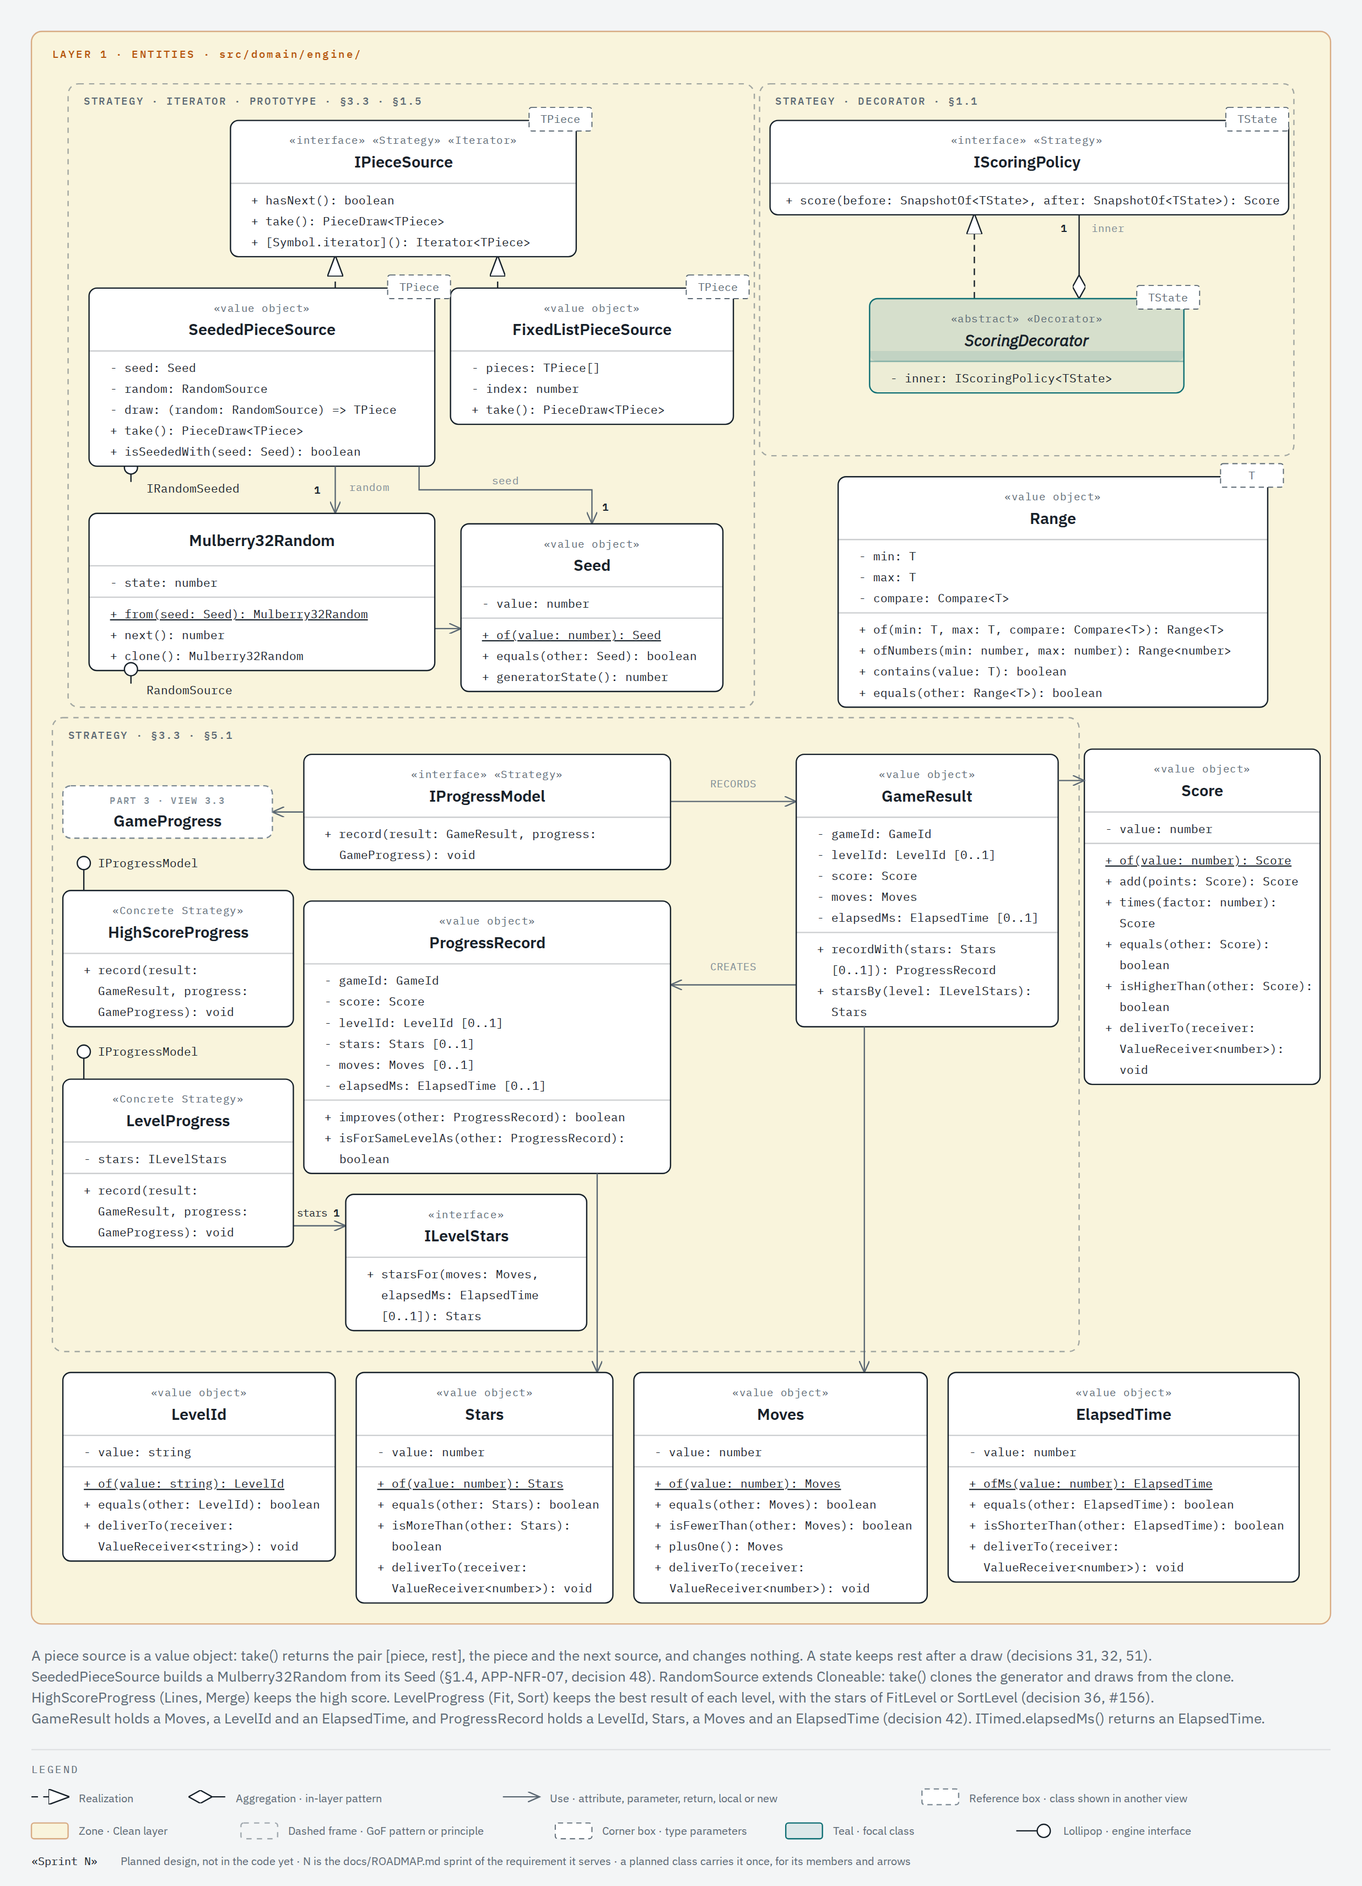
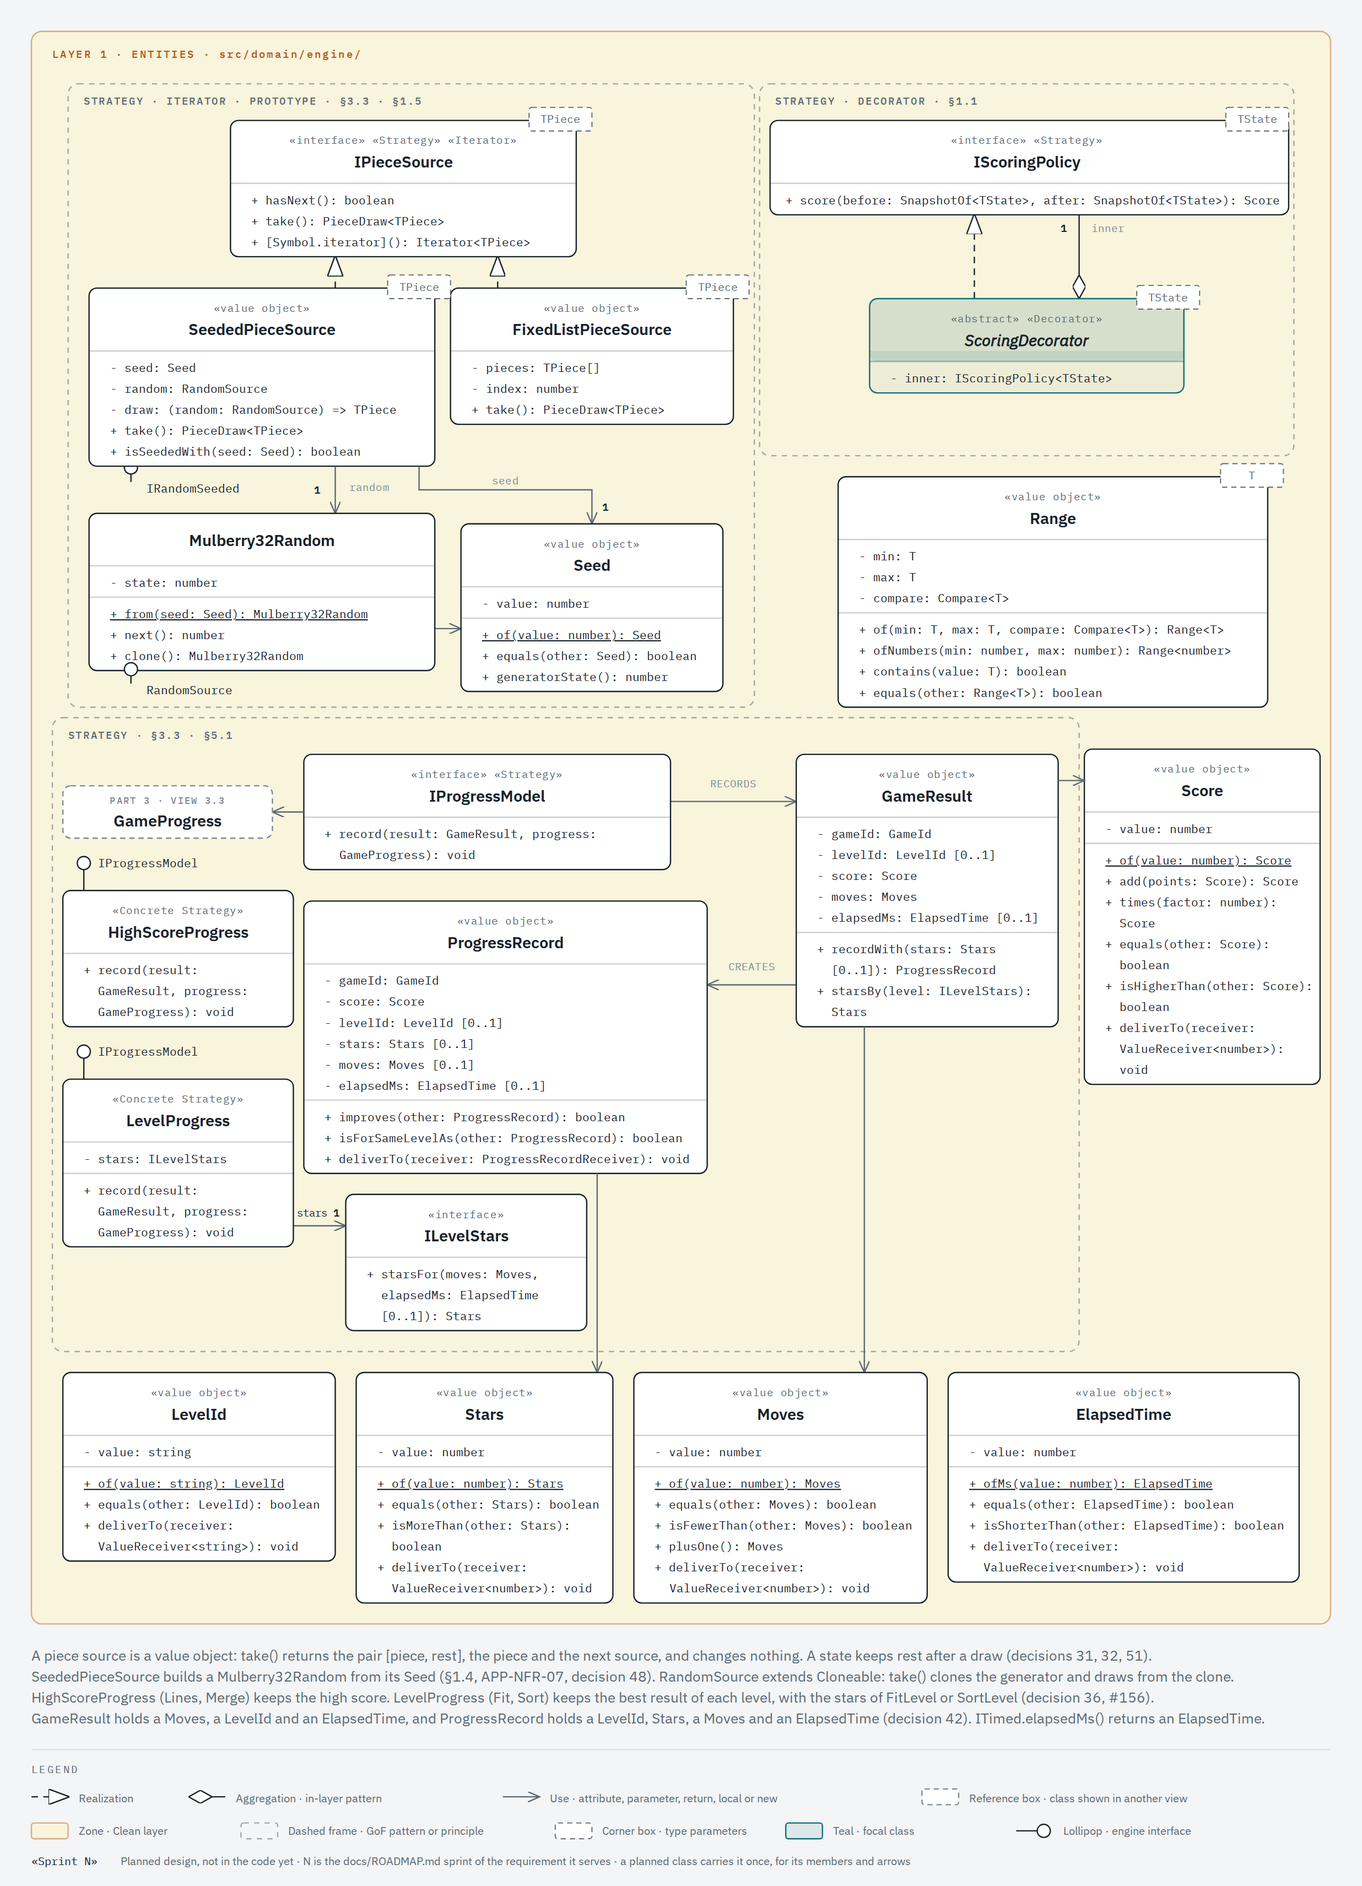
feat(domain): let the game progress, its records and the game id deliver their values
GameProgress, ProgressRecord and GameId give their data to a receiver with deliverTo().

An adapter of the edge stores a progress with them; no getter and no primitive is added.

Refs #164

Changed region(s): [[0.4672, 0.4645, 0.5295, 0.6193], [0.3115, 0.4955, 0.4049, 0.5264]]

diff --git a/test/support/engine/progress-content.ts b/test/support/engine/progress-content.ts
@@ -1,0 +1,74 @@
+import type { ElapsedTime } from '../../../src/domain/engine/elapsed-time';
+import type { GameId } from '../../../src/domain/engine/game-id';
+import type { GameProgress } from '../../../src/domain/engine/game-progress';
+import type { LevelId } from '../../../src/domain/engine/level-id';
+import type { Moves } from '../../../src/domain/engine/moves';
+import type { ProgressRecord } from '../../../src/domain/engine/progress-model';
+import type { Score } from '../../../src/domain/engine/score';
+import type { Stars } from '../../../src/domain/engine/stars';
+
+// Readers of a progress and of a record. They exist only in test/.
+// A progress and a record keep their fields private and deliver them to a receiver (issue #164).
+
+// What a progress delivers: the id of its game, its high score and the result of each level.
+export interface ProgressContent {
+  readonly gameId: GameId;
+  readonly highScore: ProgressRecord | undefined;
+  readonly levels: readonly ProgressRecord[];
+}
+
+// What a record delivers. A record of a game with no levels has no level values.
+export interface RecordContent {
+  readonly gameId: GameId;
+  readonly score: Score;
+  readonly levelId: LevelId | undefined;
+  readonly stars: Stars | undefined;
+  readonly moves: Moves | undefined;
+  readonly elapsedMs: ElapsedTime | undefined;
+}
+
+// The content that `progress` delivers. A progress that delivers no content,
+// or more than one content, throws.
+export function contentOf(progress: GameProgress): ProgressContent {
+  const contents: ProgressContent[] = [];
+  progress.deliverTo({
+    receive: (gameId, highScore, levels) => contents.push({ gameId, highScore, levels }),
+  });
+  if (contents.length !== 1) {
+    throw new Error(`The progress delivered ${contents.length} contents, not 1.`);
+  }
+  return contents[0];
+}
+
+// The content that `record` delivers. A record that delivers no content,
+// or more than one content, throws.
+export function recordContentOf(record: ProgressRecord): RecordContent {
+  const contents: RecordContent[] = [];
+  record.deliverTo({
+    receive: (gameId, score, levelId, stars, moves, elapsedMs) =>
+      contents.push({ gameId, score, levelId, stars, moves, elapsedMs }),
+  });
+  if (contents.length !== 1) {
+    throw new Error(`The record delivered ${contents.length} contents, not 1.`);
+  }
+  return contents[0];
+}
+
+// Tells if two progresses deliver equal value objects: one game id, equal high scores,
+// and equal level results in the same order. Each value object compares with `equals()`.
+export function sameContent(left: GameProgress, right: GameProgress): boolean {
+  const first = contentOf(left);
+  const second = contentOf(right);
+  return (
+    first.gameId.equals(second.gameId) &&
+    sameRecord(first.highScore, second.highScore) &&
+    first.levels.length === second.levels.length &&
+    first.levels.every((record, index) => sameRecord(record, second.levels[index]))
+  );
+}
+
+// Two missing records are equal. A missing record and a present record are different.
+function sameRecord(left: ProgressRecord | undefined, right: ProgressRecord | undefined): boolean {
+  if (left === undefined || right === undefined) return left === right;
+  return left.equals(right);
+}

diff --git a/docs/architecture/classes/views/engine-4-sources.html b/docs/architecture/classes/views/engine-4-sources.html
@@ -88,7 +88,8 @@
           Moves, a LevelId and an ElapsedTime, and ProgressRecord holds a LevelId, Stars, a Moves
           and an ElapsedTime. Their fields are private: GameResult creates the ProgressRecord of a
           progress model with recordWith(), and ProgressRecord tells with improves() whether it is
-          better than the stored record, by the order of DS-4.
+          better than the stored record, by the order of DS-4. ProgressRecord gives its value
+          objects to a repository of the edge with deliverTo().
         </desc>
         <defs>
           <marker
@@ -783,15 +784,15 @@
         <line
           x1="608"
           y1="752"
-          x2="512"
+          x2="540"
           y2="752"
           stroke-width="1"
           marker-end="url(#sources-open)"
           stroke="#5b6873"
         />
-        <rect x="538" y="732" width="44" height="12" rx="2" fill="#f9f4dc" />
+        <rect x="552" y="732" width="44" height="12" rx="2" fill="#f9f4dc" />
         <text
-          x="560"
+          x="574"
           y="741"
           fill="#7d8a94"
           font-size="8"
@@ -805,16 +806,16 @@
         <rect
           x="232"
           y="688"
-          width="280"
+          width="308"
           height="208"
           rx="6"
           fill="#ffffff"
           stroke="#17212a"
           stroke-width="1"
         />
-        <line x1="232" y1="736" x2="512" y2="736" stroke="rgba(23,33,42,0.22)" stroke-width="1" />
+        <line x1="232" y1="736" x2="540" y2="736" stroke="rgba(23,33,42,0.22)" stroke-width="1" />
         <text
-          x="372"
+          x="386"
           y="706"
           fill="#5b6873"
           font-size="8"
@@ -825,7 +826,7 @@
           «value object»
         </text>
         <text
-          x="372"
+          x="386"
           y="724"
           fill="#17212a"
           font-size="12"
@@ -853,15 +854,15 @@
         <text x="248" y="832" fill="#17212a" font-size="9" font-family="'IBM Plex Mono', monospace">
           - elapsedMs: ElapsedTime [0..1]
         </text>
-        <line x1="232" y1="840" x2="512" y2="840" stroke="rgba(23,33,42,0.22)" stroke-width="1" />
+        <line x1="232" y1="840" x2="540" y2="840" stroke="rgba(23,33,42,0.22)" stroke-width="1" />
         <text x="248" y="856" fill="#17212a" font-size="9" font-family="'IBM Plex Mono', monospace">
           + improves(other: ProgressRecord): boolean
         </text>
         <text x="248" y="872" fill="#17212a" font-size="9" font-family="'IBM Plex Mono', monospace">
-          + isForSameLevelAs(other: ProgressRecord):
+          + isForSameLevelAs(other: ProgressRecord): boolean
         </text>
-        <text x="259" y="888" fill="#17212a" font-size="9" font-family="'IBM Plex Mono', monospace">
-          boolean
+        <text x="248" y="888" fill="#17212a" font-size="9" font-family="'IBM Plex Mono', monospace">
+          + deliverTo(receiver: ProgressRecordReceiver): void
         </text>
 
         <!-- Class: GameResult (value object, private fields) -->

diff --git a/test/domain/engine/game-progress.test.ts b/test/domain/engine/game-progress.test.ts
@@ -9,6 +9,7 @@ import { Moves } from '../../../src/domain/engine/moves';
 import { GameResult, ProgressRecord } from '../../../src/domain/engine/progress-model';
 import { Score } from '../../../src/domain/engine/score';
 import { Stars } from '../../../src/domain/engine/stars';
+import { contentOf } from '../../support/engine/progress-content';
 
 // The local progress of one game is one object with the high score and the best result
 // of each level (S3-04, issue #156). A progress model records each result in it.
@@ -75,6 +76,45 @@ describe('GameProgress', () => {
     expect(progress.keeps(levelRecord('l2', 1, 40))).toBe(false);
     // A level result is not the high score, and a high score is not a level result.
     expect(progress.keeps(highScore(0))).toBe(false);
+  });
+
+  // The fields are private. A repository of the edge receives them through `deliverTo()`
+  // (issue #164), and the delivery returns nothing.
+  it('should_deliver_the_game_id_the_high_score_and_each_level_result_when_a_receiver_takes_the_progress', () => {
+    const progress = GameProgress.start(gameId);
+    progress.recordLevel(levelRecord('l2', 1, 40));
+    progress.recordScore(highScore(35));
+    progress.recordLevel(levelRecord('l1', 3, 10, 2000));
+    progress.recordLevel(levelRecord('l2', 2, 50));
+
+    const content = contentOf(progress);
+
+    expect(content.gameId.equals(gameId)).toBe(true);
+    expect(content.highScore?.equals(highScore(35))).toBe(true);
+    // One result per level, in the order of the first result of each level.
+    expect(content.levels).toHaveLength(2);
+    expect(content.levels[0].equals(levelRecord('l2', 2, 50))).toBe(true);
+    expect(content.levels[1].equals(levelRecord('l1', 3, 10, 2000))).toBe(true);
+    expect(progress.deliverTo({ receive: () => undefined })).toBeUndefined();
+  });
+
+  it('should_deliver_no_high_score_and_no_level_result_when_the_progress_is_new', () => {
+    const content = contentOf(GameProgress.start(gameId));
+
+    expect(content.gameId.equals(gameId)).toBe(true);
+    expect(content.highScore).toBeUndefined();
+    expect(content.levels).toEqual([]);
+  });
+
+  // The delivery gives a copy of the list, so a receiver cannot change the progress.
+  it('should_keep_its_level_results_when_a_receiver_empties_the_delivered_list', () => {
+    const progress = GameProgress.start(gameId);
+    progress.recordLevel(levelRecord('l1', 3, 10));
+
+    (contentOf(progress).levels as ProgressRecord[]).length = 0;
+
+    expect(contentOf(progress).levels).toHaveLength(1);
+    expect(progress.keeps(levelRecord('l1', 3, 10))).toBe(true);
   });
 
   // A progress is an entity (classes.md decision 52): its identity is the id of its game.

diff --git a/test/domain/engine/progress-model.test.ts b/test/domain/engine/progress-model.test.ts
@@ -6,6 +6,7 @@ import { Moves } from '../../../src/domain/engine/moves';
 import { GameResult, ProgressRecord } from '../../../src/domain/engine/progress-model';
 import { Score } from '../../../src/domain/engine/score';
 import { Stars } from '../../../src/domain/engine/stars';
+import { recordContentOf } from '../../support/engine/progress-content';
 
 // A progress value holds value objects: a `Score`, `Moves`, a `LevelId`, an `ElapsedTime`
 // and `Stars`. It has no check of its own: each value object is valid when it exists
@@ -69,6 +70,44 @@ describe('ProgressRecord', () => {
     expect(record(10, 5000).equals(record(10, 5000))).toBe(true);
     expect(record(10, 5000).equals(record(11, 5000))).toBe(false);
     expect(record(10, 5000).equals(record(10, 5001))).toBe(false);
+  });
+
+  // The fields are private. A repository of the edge receives them through `deliverTo()`
+  // (issue #164), and the delivery returns nothing.
+  it('should_deliver_each_value_object_when_a_receiver_takes_the_record_of_a_level', () => {
+    const record = ProgressRecord.of({
+      gameId,
+      score: Score.of(12),
+      levelId: LevelId.of('l1'),
+      stars: Stars.of(2),
+      moves: Moves.of(9),
+      elapsedMs: ElapsedTime.ofMs(3000),
+    });
+
+    const content = recordContentOf(record);
+
+    expect([
+      content.gameId.equals(gameId),
+      content.score.equals(Score.of(12)),
+      content.levelId?.equals(LevelId.of('l1')),
+      content.stars?.equals(Stars.of(2)),
+      content.moves?.equals(Moves.of(9)),
+      content.elapsedMs?.equals(ElapsedTime.ofMs(3000)),
+    ]).toEqual([true, true, true, true, true, true]);
+    expect(record.deliverTo({ receive: () => undefined })).toBeUndefined();
+  });
+
+  it('should_deliver_no_level_values_when_a_receiver_takes_the_record_of_a_high_score', () => {
+    const content = recordContentOf(ProgressRecord.of({ gameId, score: Score.of(36) }));
+
+    expect(content.gameId.equals(gameId)).toBe(true);
+    expect(content.score.equals(Score.of(36))).toBe(true);
+    expect([content.levelId, content.stars, content.moves, content.elapsedMs]).toEqual([
+      undefined,
+      undefined,
+      undefined,
+      undefined,
+    ]);
   });
 
   // A game with no levels has no level id and no stars, and that is valid.

diff --git a/src/domain/engine/game-progress.ts b/src/domain/engine/game-progress.ts
@@ -9,7 +9,9 @@ import type { ProgressRecord } from './progress-model';
 // A progress model records each result in it (`IProgressModel`).
 // The progress asks each record whether it `improves()` the stored record.
 // So it keeps the best record by the order of DS-4 and DS-12, and a tie keeps the stored record.
-// Every field is private.
+// Every field is private. A repository of the edge receives the fields through `deliverTo()`
+// (issue #164). It builds a saved progress again with `start()`, `recordScore()`
+// and `recordLevel()`, so the progress keeps its rules when it comes back from storage.
 export class GameProgress {
   private highScore: ProgressRecord | undefined = undefined;
   // One record per level, in the order of the first result of each level.
@@ -54,4 +56,24 @@ export class GameProgress {
       this.highScore?.equals(record) === true || this.levels.some((stored) => stored.equals(record))
     );
   }
+
+  // Gives the game id, the high score and the record of each level to `receiver`.
+  // It returns nothing. A progress with no high score gives `undefined` for it.
+  // The levels come in the order of the first result of each level, in a new list,
+  // so the receiver cannot change the progress. Only a repository of the edge calls it
+  // (rule R-no-delivery-call).
+  deliverTo(receiver: GameProgressReceiver): void {
+    receiver.receive(this.gameId, this.highScore, [...this.levels]);
+  }
+}
+
+// The receiver of the data of a `GameProgress`. A repository of the edge implements it,
+// for example to save the progress (issue #164). No code of `src/domain/`
+// or `src/application/` calls `deliverTo()` (rule R-no-delivery-call).
+export interface GameProgressReceiver {
+  receive(
+    gameId: GameId,
+    highScore: ProgressRecord | undefined,
+    levels: readonly ProgressRecord[],
+  ): void;
 }

diff --git a/src/domain/engine/progress-model.ts b/src/domain/engine/progress-model.ts
@@ -84,6 +84,7 @@ export class GameResult {
 // So the record has no check of its own: a `Score`, a `LevelId`, `Stars`, `Moves`
 // and an `ElapsedTime` are valid when they exist.
 // Every field is private (issue #240). A progress keeps the best record with `improves()`.
+// A repository of the edge receives the fields through `deliverTo()` (issue #164).
 export class ProgressRecord {
   private constructor(
     private readonly gameId: GameId,
@@ -148,6 +149,27 @@ export class ProgressRecord {
       false
     );
   }
+
+  // Gives the value objects of this record to `receiver`. It returns nothing.
+  // A record of a game with no levels gives no level id, no stars, no moves and no time.
+  // Only a repository of the edge calls it (rule R-no-delivery-call).
+  deliverTo(receiver: ProgressRecordReceiver): void {
+    receiver.receive(this.gameId, this.score, this.levelId, this.stars, this.moves, this.elapsedMs);
+  }
+}
+
+// The receiver of the value objects of a `ProgressRecord`. A repository of the edge
+// implements it, for example to save the record (issue #164). No code of `src/domain/`
+// or `src/application/` calls `deliverTo()` (rule R-no-delivery-call).
+export interface ProgressRecordReceiver {
+  receive(
+    gameId: GameId,
+    score: Score,
+    levelId: LevelId | undefined,
+    stars: Stars | undefined,
+    moves: Moves | undefined,
+    elapsedMs: ElapsedTime | undefined,
+  ): void;
 }
 
 // Compares two optional value objects with `same`, the `equals()` of their class.

diff --git a/test/domain/engine/game-phase.test.ts b/test/domain/engine/game-phase.test.ts
@@ -14,6 +14,7 @@ import {
 } from '../../../src/domain/engine/game-phase';
 import { dataOf } from '../../support/engine/game-over';
 import { MATCH_ID } from '../../support/engine/match-id';
+import { RecordingReceiver } from '../../support/engine/value-receiver';
 
 // The value that `act` throws, or `undefined` when it throws nothing.
 function thrownBy(act: () => void): unknown {
@@ -179,6 +180,17 @@ describe('GameId', () => {
   it('should_be_equal_when_two_ids_hold_the_same_value', () => {
     expect(GameId.of('hexa-fit').equals(GameId.of('hexa-fit'))).toBe(true);
     expect(GameId.of('hexa-fit').equals(GameId.of('hexa-sort'))).toBe(false);
+  });
+
+  // The text leaves the id only through a receiver (issue #164).
+  // The local progress repository saves the progress of a game under a key with this text.
+  it('should_deliver_its_text_once_and_return_nothing_when_a_receiver_takes_it', () => {
+    const receiver = new RecordingReceiver<string>();
+
+    const returned: void = GameId.of('hexa-fit').deliverTo(receiver);
+
+    expect(returned).toBeUndefined();
+    expect(receiver.received()).toEqual(['hexa-fit']);
   });
 });
 

diff --git a/src/domain/engine/game-id.ts b/src/domain/engine/game-id.ts
@@ -1,7 +1,13 @@
+import type { ValueReceiver } from './value-receiver';
+
 // The id of one game, for example `hexa-lines`. It is an open value object:
 // a new variant brings its own id and changes no engine file (classes.md decision 30).
 // An id is a lowercase kebab-case slug: words of `a` to `z` and `0` to `9`, joined by one `-`.
 // So an id has no space, no tab and no uppercase letter.
+// The text is private. `deliverTo()` gives it to a receiver, and no operation returns it.
+// Only an adapter of the edge calls `deliverTo()`, for example the local progress repository,
+// which saves the progress of each game under a key with this text (issue #164).
+// The domain and the use cases call `equals()` (rule R-no-delivery-call).
 const SLUG = /^[a-z0-9]+(?:-[a-z0-9]+)*$/;
 
 export class GameId {
@@ -17,5 +23,10 @@ export class GameId {
 
   equals(other: GameId): boolean {
     return this.value === other.value;
+  }
+
+  // Gives the text of this game id to `receiver`. It returns nothing.
+  deliverTo(receiver: ValueReceiver<string>): void {
+    receiver.receive(this.value);
   }
 }

diff --git a/src/adapters/home-presenter.ts b/src/adapters/home-presenter.ts
@@ -38,9 +38,8 @@ const GAME_NAME = /^game\.([a-z0-9-]+)\.name$/;
 // and the texts of one language, so a test builds it without a screen.
 // The selector lists the games in the order of the registry. So a fifth variant adds one entry
 // to the registry and its texts to the catalog, and this presenter does not change.
-// `GameId` keeps its text private and has no `deliverTo()`. So the presenter finds the texts
-// of a game with `GameId.equals()`: it compares the id of each game that the catalog names
-// with the registered id.
+// `GameId` keeps its text private. The presenter finds the texts of a game with `GameId.equals()`:
+// it compares the id of each game that the catalog names with the registered id.
 export class HomePresenter {
   constructor(
     private readonly games: readonly GameId[],
